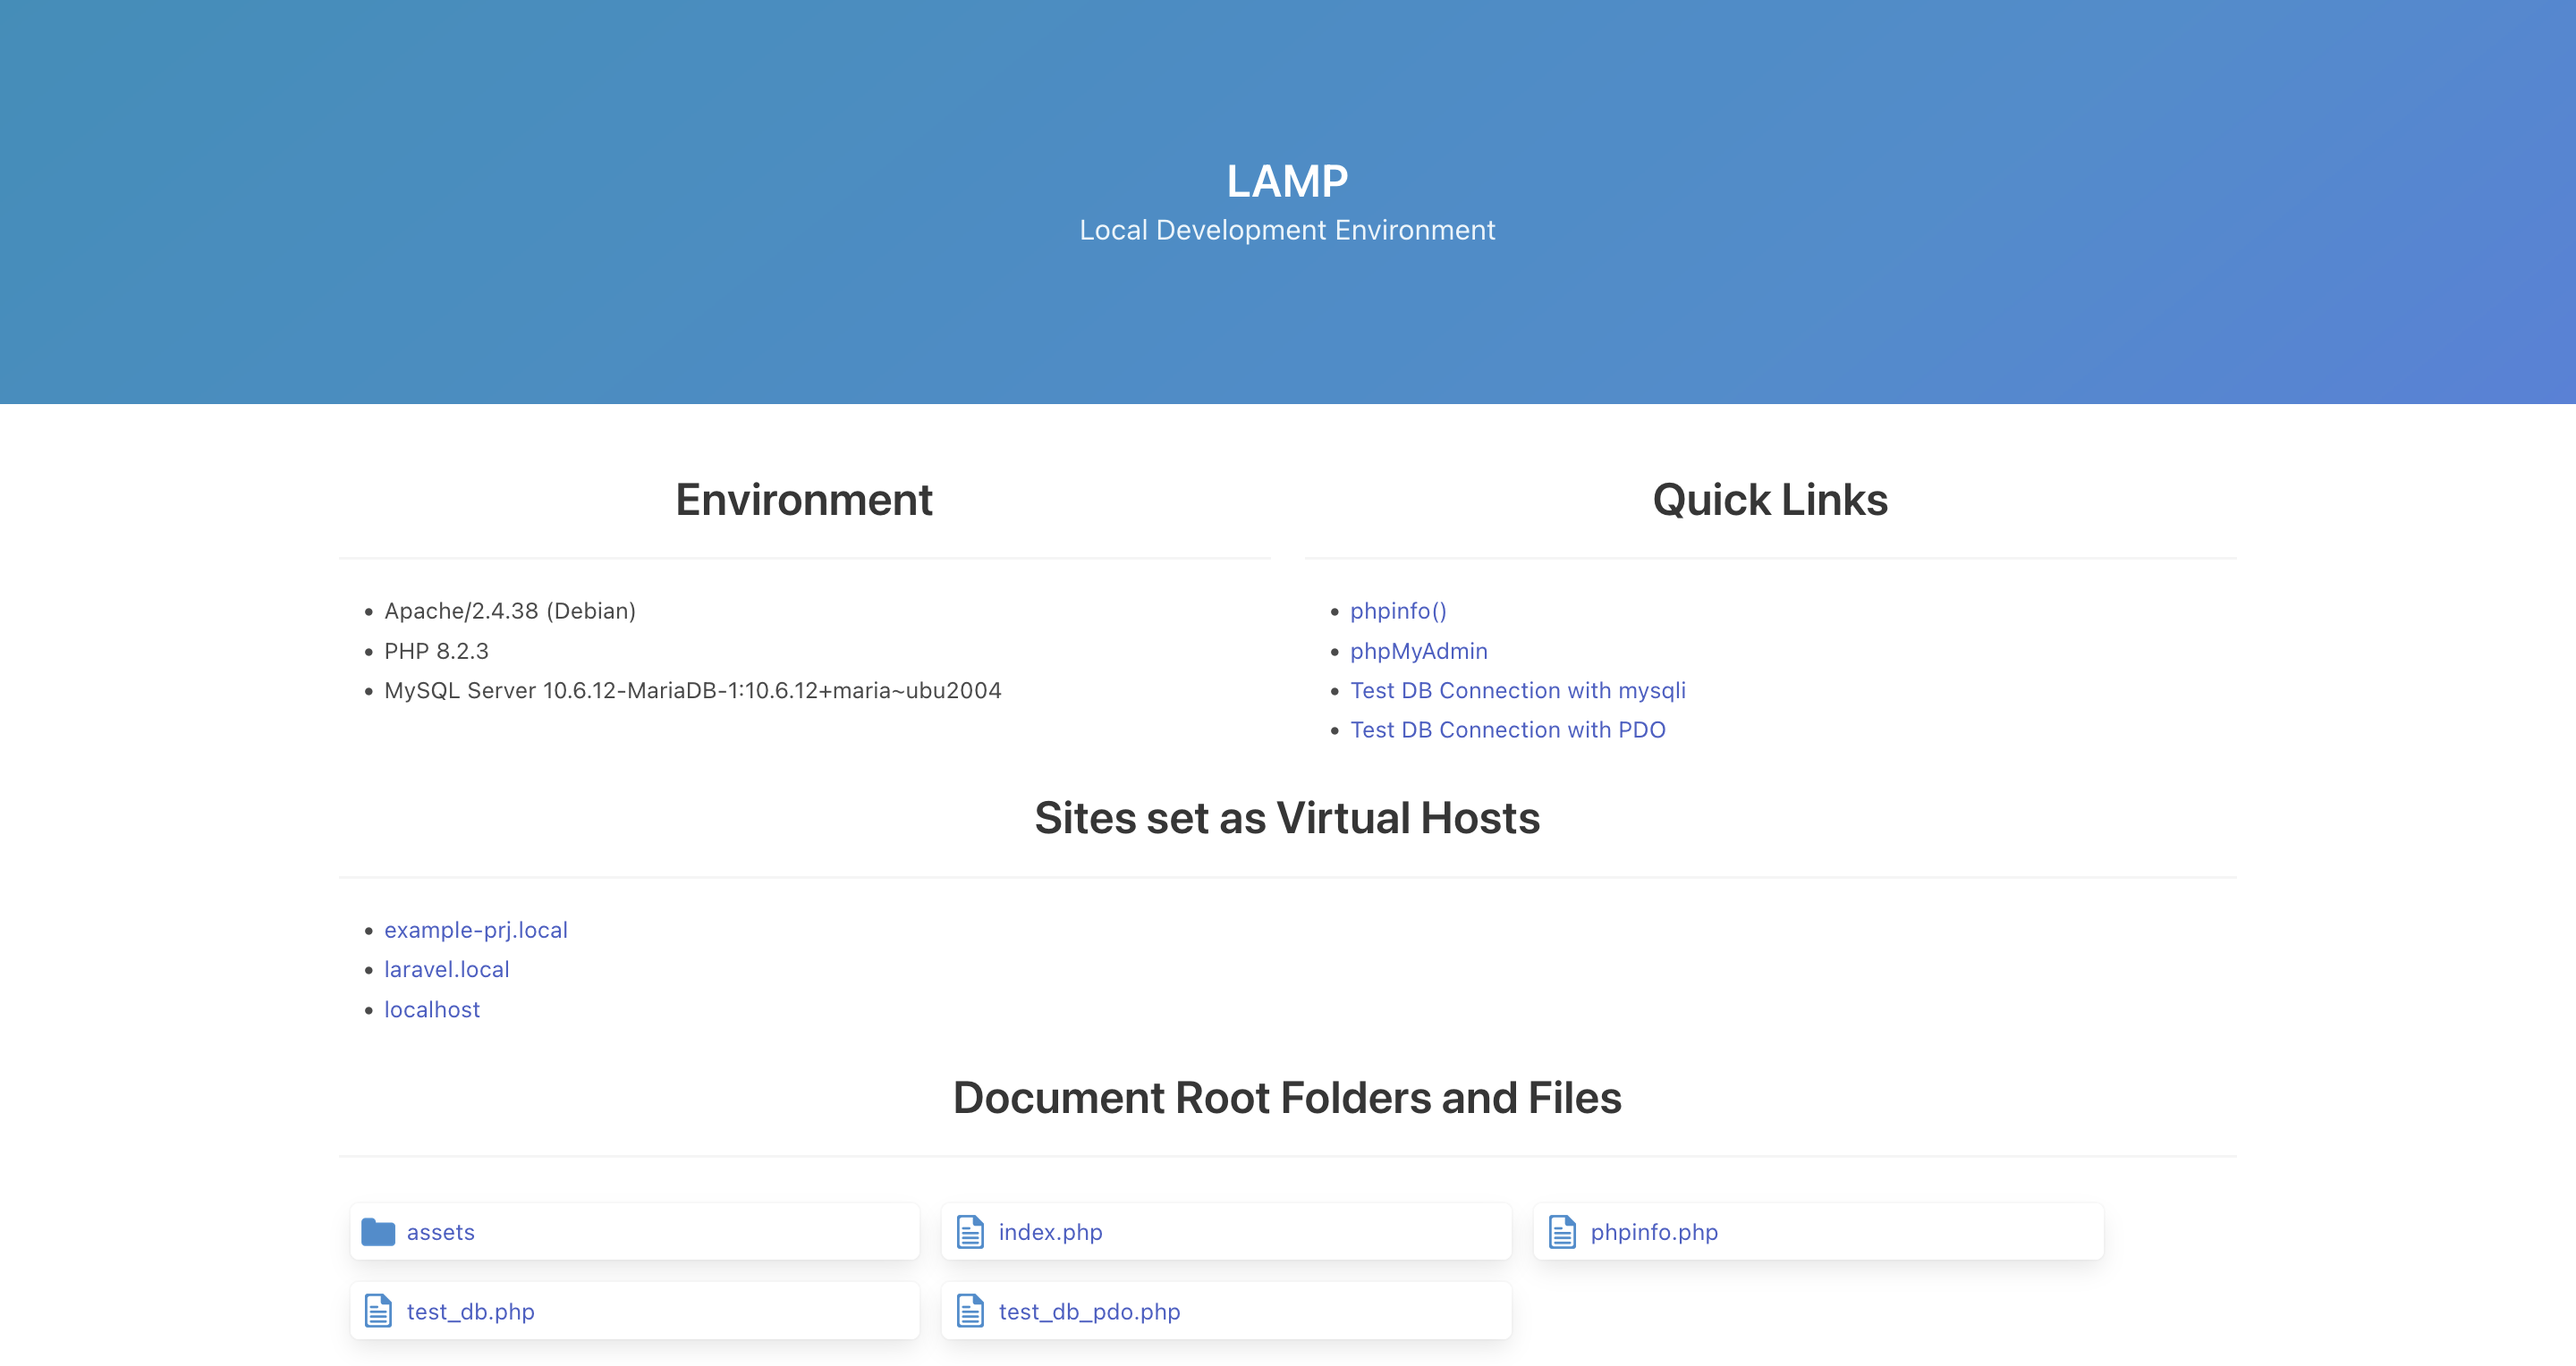
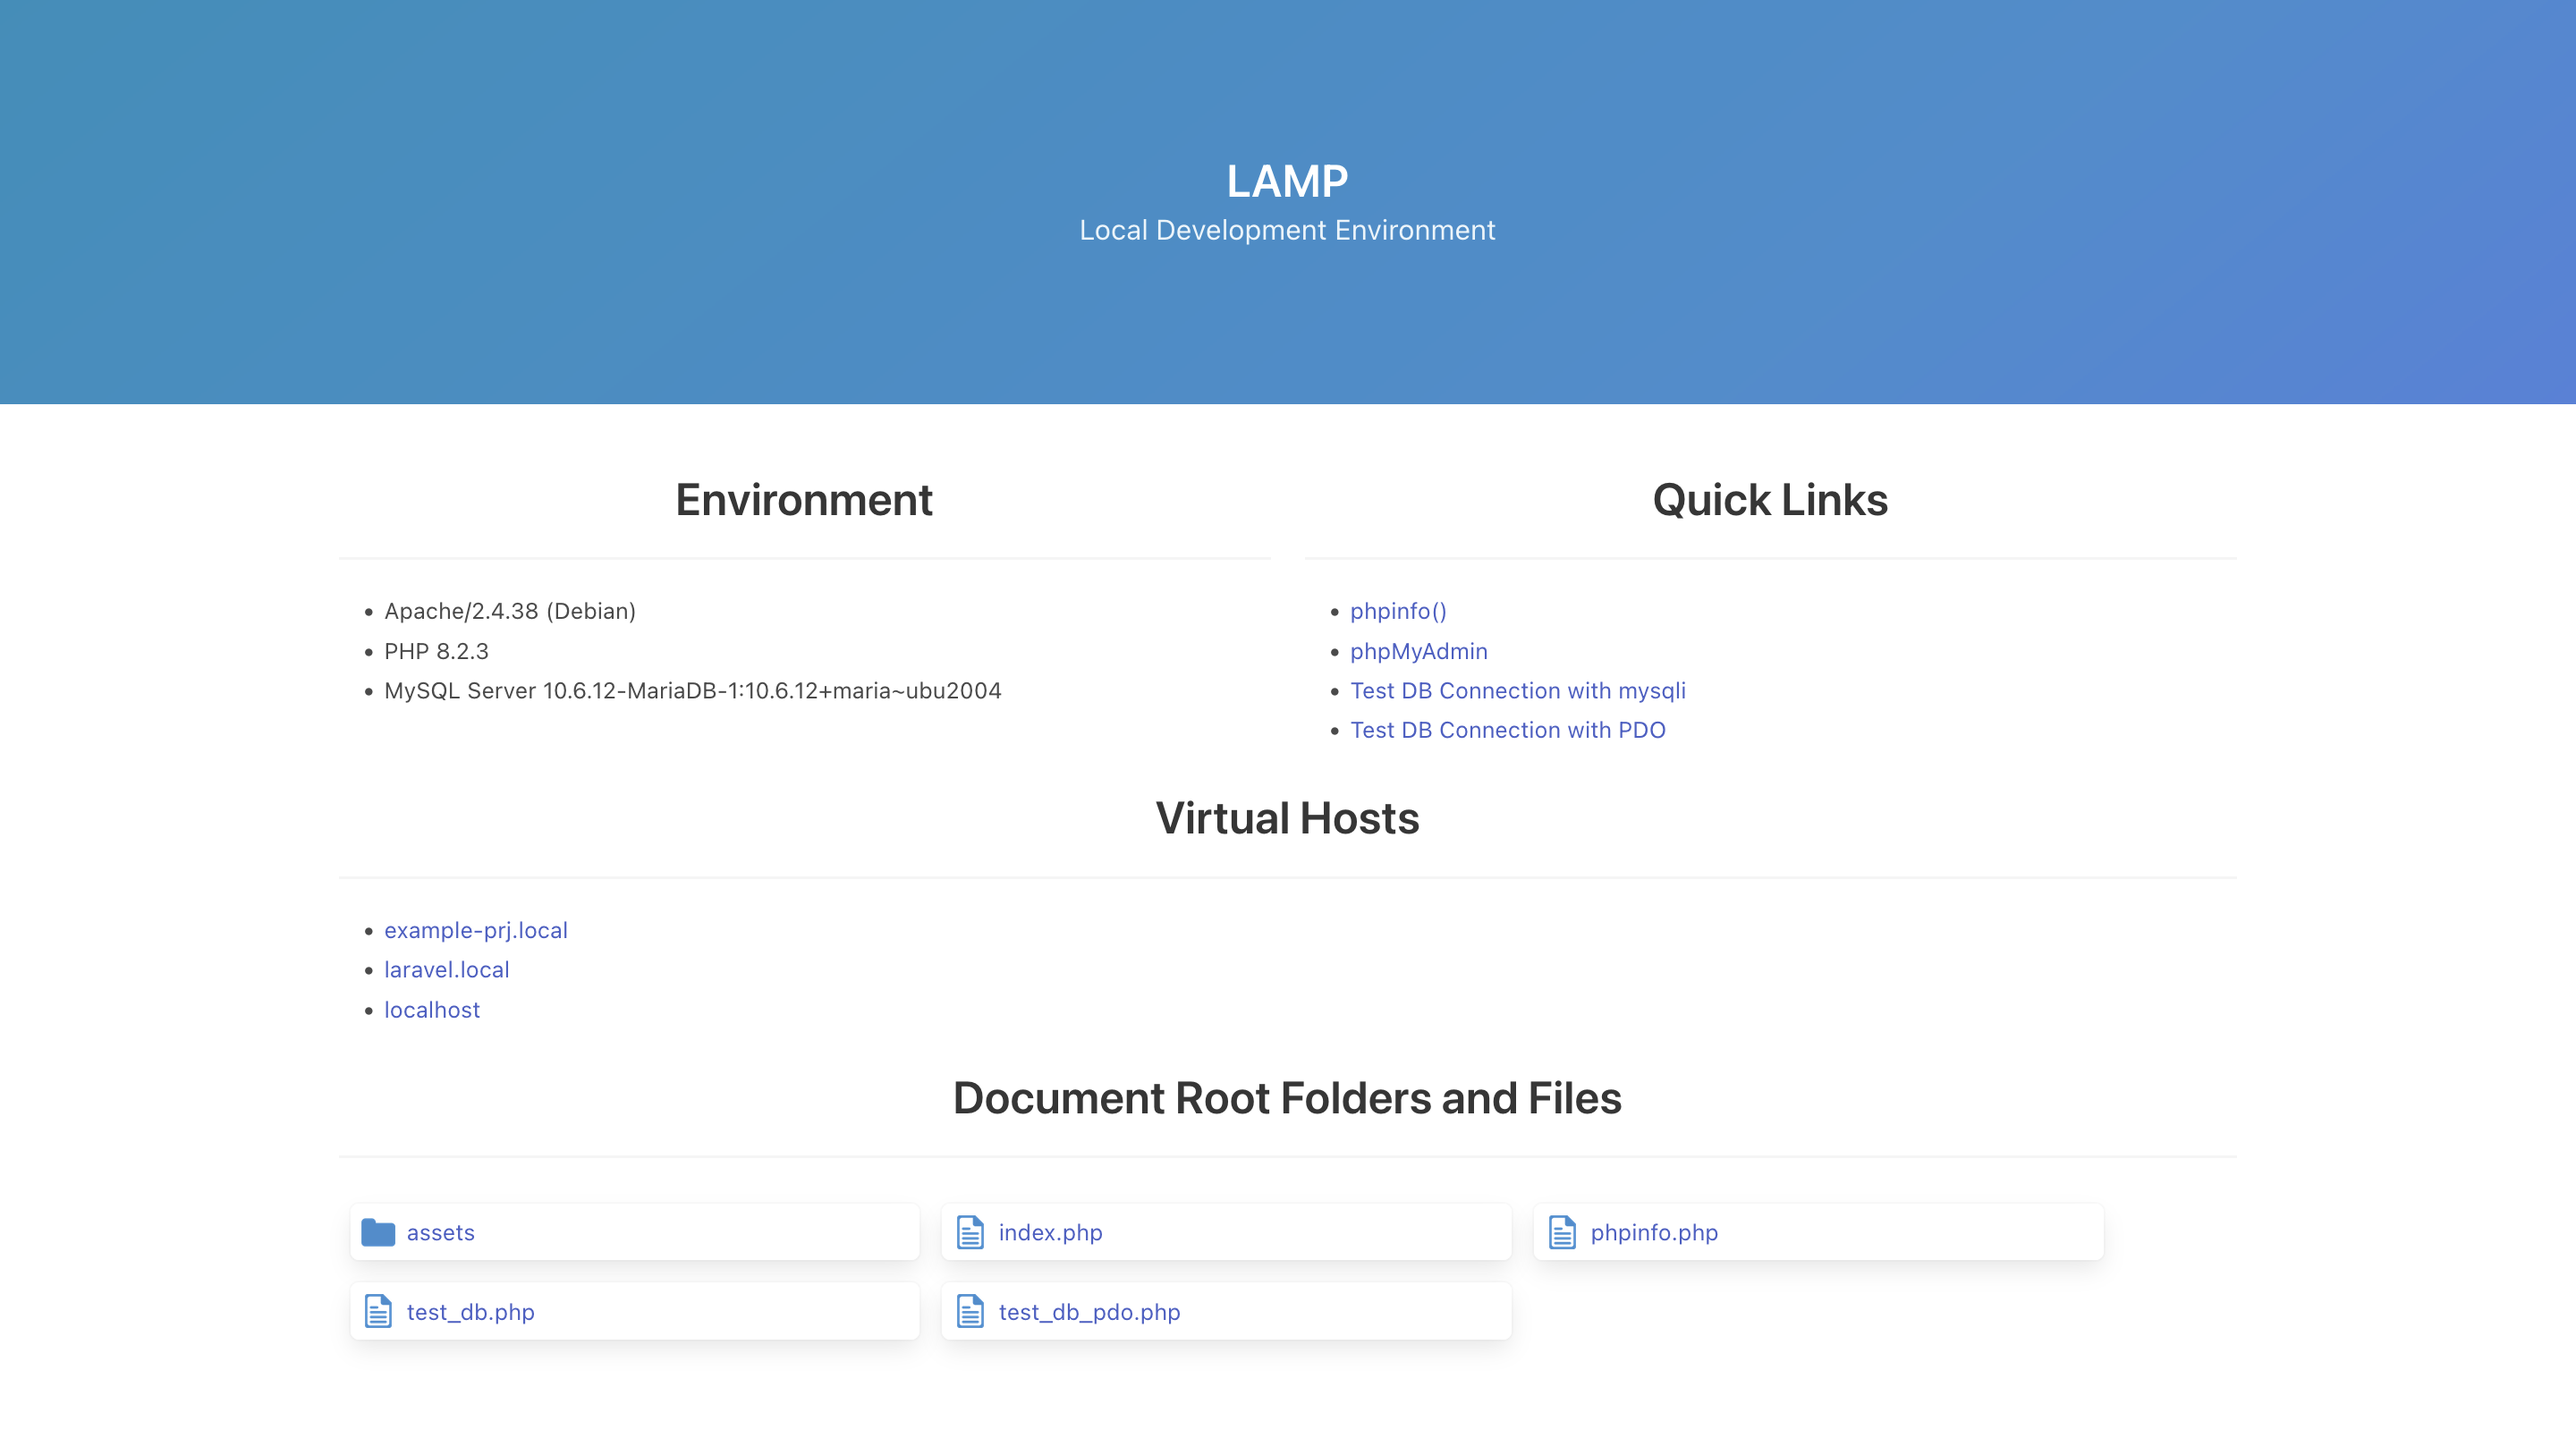
update title in index and screenshot

diff --git a/www/index.php b/www/index.php
@@ -72,7 +72,7 @@ $sites = lamp_docker__get_sites_from_vhost();
             <div class="container">
                 <div class="columns">
                     <div class="column">
-                        <h3 class="title is-3 has-text-centered">Sites set as Virtual Hosts</h3>
+                        <h3 class="title is-3 has-text-centered">Virtual Hosts</h3>
                         <hr>
                         <div class="content">
                             <?php if (count($sites)): ?>
